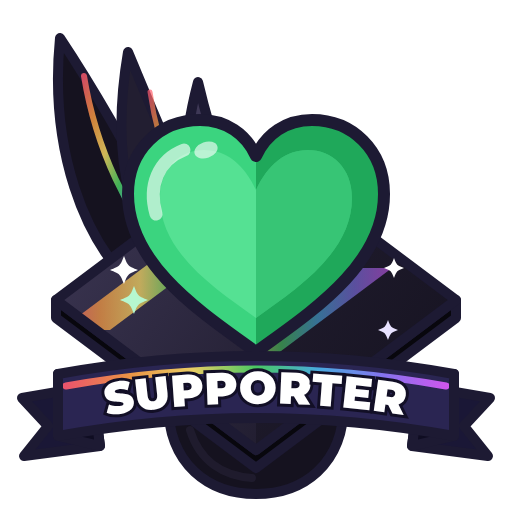
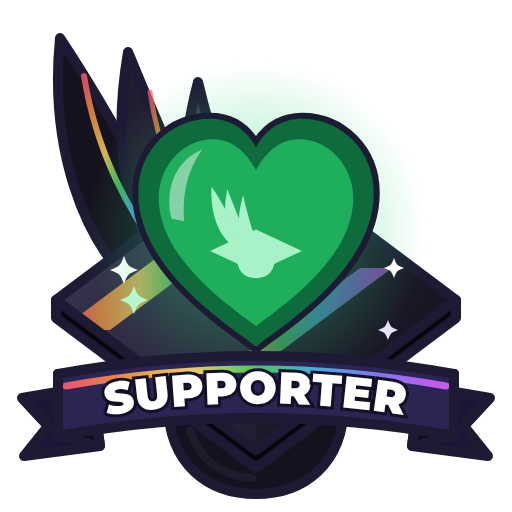
Draw the Supporter badge with the page's green heart and Studily mark, and show a gold chest beside it in the rewards showcase

Changed region(s): [[0.2188, 0.1875, 0.7812, 0.6875]]

diff --git a/frontend/src/features/support/SupportStudilyPage.tsx b/frontend/src/features/support/SupportStudilyPage.tsx
@@ -7,6 +7,7 @@ import SegmentedToggle from "../../components/SegmentedToggle";
 import { api } from "../../lib/api";
 import { useAuth } from "../../lib/auth";
 import { badgeGlow } from "../progress/badges";
+import ChestIcon from "../progress/ChestIcon";
 import GreenHeart from "./GreenHeart";
 import ShareCard from "./ShareCard";
 import ChipInCard from "./ChipInCard";
@@ -202,20 +203,37 @@ const BADGE_SIZE = 200;
 
 function SupporterBadgeShowcase() {
   return (
-    <section className="card flex flex-col items-center gap-3 px-5 py-8 text-center sm:px-8">
-      <img
-        src={SUPPORTER_BADGE}
-        alt="Supporter badge"
-        width={BADGE_SIZE}
-        height={BADGE_SIZE}
-        className="h-40 w-40 object-contain sm:h-[200px] sm:w-[200px]"
-        style={{ filter: badgeGlow("supporter", BADGE_SIZE) }}
-      />
-      <h2 className="text-lg font-semibold text-fg">Earn the Supporter badge</h2>
-      <p className="max-w-md text-[13.5px] leading-relaxed text-fg-2">
-        Chip in any amount, or invite a friend who signs up and starts studying, and the Supporter badge shows
-        on your profile for good.
-      </p>
+    <section className="card px-5 py-8 sm:px-8">
+      <h2 className="text-center text-lg font-semibold text-fg">Earn rewards for supporting Studily</h2>
+      <div className="mt-6 grid grid-cols-1 gap-8 sm:grid-cols-2 sm:gap-6">
+        <div className="flex flex-col items-center gap-3 text-center">
+          <div className="flex h-40 items-center justify-center sm:h-[200px]">
+            <img
+              src={SUPPORTER_BADGE}
+              alt="Supporter badge"
+              width={BADGE_SIZE}
+              height={BADGE_SIZE}
+              className="h-40 w-40 object-contain sm:h-[200px] sm:w-[200px]"
+              style={{ filter: badgeGlow("supporter", BADGE_SIZE) }}
+            />
+          </div>
+          <h3 className="text-[15px] font-semibold text-fg">Supporter badge</h3>
+          <p className="max-w-xs text-[13px] leading-relaxed text-fg-2">
+            Chip in any amount, or invite a friend who signs up and starts studying. It shows on your profile for
+            good.
+          </p>
+        </div>
+        <div className="flex flex-col items-center gap-3 text-center">
+          <div className="flex h-40 items-center justify-center sm:h-[200px]">
+            <ChestIcon tier="GOLD" size={176} />
+          </div>
+          <h3 className="text-[15px] font-semibold text-fg">Gold chest</h3>
+          <p className="max-w-xs text-[13px] leading-relaxed text-fg-2">
+            You and every friend who joins with your invite link and starts studying each get one, full of coins
+            and a shot at rare badges and flairs.
+          </p>
+        </div>
+      </div>
     </section>
   );
 }

diff --git a/design/badges/build_badges.py b/design/badges/build_badges.py
@@ -414,19 +414,31 @@ def icon_feedback():
 
 
 def icon_heart():
-    heart = ("M256 352 C204 314 128 266 128 194 C128 150 160 120 200 120 C226 120 246 134 256 156 "
-             "C266 134 286 120 312 120 C352 120 384 150 384 194 C384 266 308 314 256 352 Z")
-    right = ("M256 156 C266 134 286 120 312 120 C352 120 384 150 384 194 C384 266 308 314 256 352 Z")
-    inner = ("M256 318 C214 288 160 252 160 198 C160 168 180 150 204 150 C226 150 244 164 256 190 "
-             "C268 164 286 150 308 150 C332 150 352 168 352 198 C352 252 298 288 256 318 Z")
+    outer = ("M50 94 C40 86 4 64 4 34 C4 17 17 5 32 5 C40 5 46 9 50 16 "
+             "C54 9 60 5 68 5 C83 5 96 17 96 34 C96 64 60 86 50 94 Z")
+    mid = ("M50 86 C41 79 12 60 12 36 C12 23 22 13 33 13 C41 13 46 18 50 25 "
+           "C54 18 59 13 67 13 C78 13 88 23 88 36 C88 60 59 79 50 86 Z")
+    shine = "M17 44 C14 32 19 21 29 17 C24 24 21 33 22 45 Z"
+    logo = [
+        "M72 116 C46 100 36 64 38 30 C58 60 72 92 86 110 Z",
+        "M80 118 C60 102 52 74 60 34 C72 64 82 92 94 112 Z",
+        "M88 120 C74 104 72 78 82 42 C88 70 96 94 102 114 Z",
+        "M74 132 C74 150 86 158 100 158 C114 158 126 150 126 132 L126 118 L100 130 L74 118 Z",
+        "M100 90 L164 120 L100 150 L36 120 Z",
+    ]
+    mark = "".join(f'<path d="{d}"/>' for d in logo)
     return (
-        f'<path d="{heart}" fill="#3BD47F"/>'
-        f'<path d="{right}" fill="#1FA85A"/>'
-        f'<path d="{inner}" fill="#6BEBA4" opacity="0.55"/>'
-        '<path d="M256 190 C268 164 286 150 308 150 C332 150 352 168 352 198 C352 252 298 288 256 318 Z" fill="#2CC06C" opacity="0.6"/>'
-        '<path d="M156 214 C148 186 158 160 184 150" fill="none" stroke="#FFFFFF" stroke-width="13" stroke-linecap="round" opacity="0.6"/>'
-        '<ellipse cx="206" cy="150" rx="12" ry="8" fill="#FFFFFF" opacity="0.6" transform="rotate(-20 206 150)"/>'
-        f'<path d="{heart}" fill="none" stroke="{OUT}" stroke-width="{SW + 2}" stroke-linejoin="round"/>'
+        '<defs><radialGradient id="heart-halo" cx="0.5" cy="0.5" r="0.5">'
+        '<stop offset="0" stop-color="#2fd77c" stop-opacity="0.55"/>'
+        '<stop offset="1" stop-color="#2fd77c" stop-opacity="0"/></radialGradient></defs>'
+        '<circle cx="256" cy="232" r="170" fill="url(#heart-halo)"/>'
+        '<g transform="translate(128 106) scale(2.56)">'
+        f'<path d="{outer}" fill="none" stroke="{OUT}" stroke-width="{(SW + 2) / 2.56:.2f}" stroke-linejoin="round"/>'
+        f'<path d="{outer}" fill="#0d6b3c"/>'
+        f'<path d="{mid}" fill="#1fae5c"/>'
+        f'<path d="{shine}" fill="#FFFFFF" opacity="0.45"/>'
+        f'<g transform="translate(22 23) scale(0.28)" fill="#a9f2c8">{mark}</g>'
+        '</g>'
         + sparkle(134, 300, 14, "#B6F7CF") + sparkle(394, 268, 10, "#FFFFFF")
     )
 
